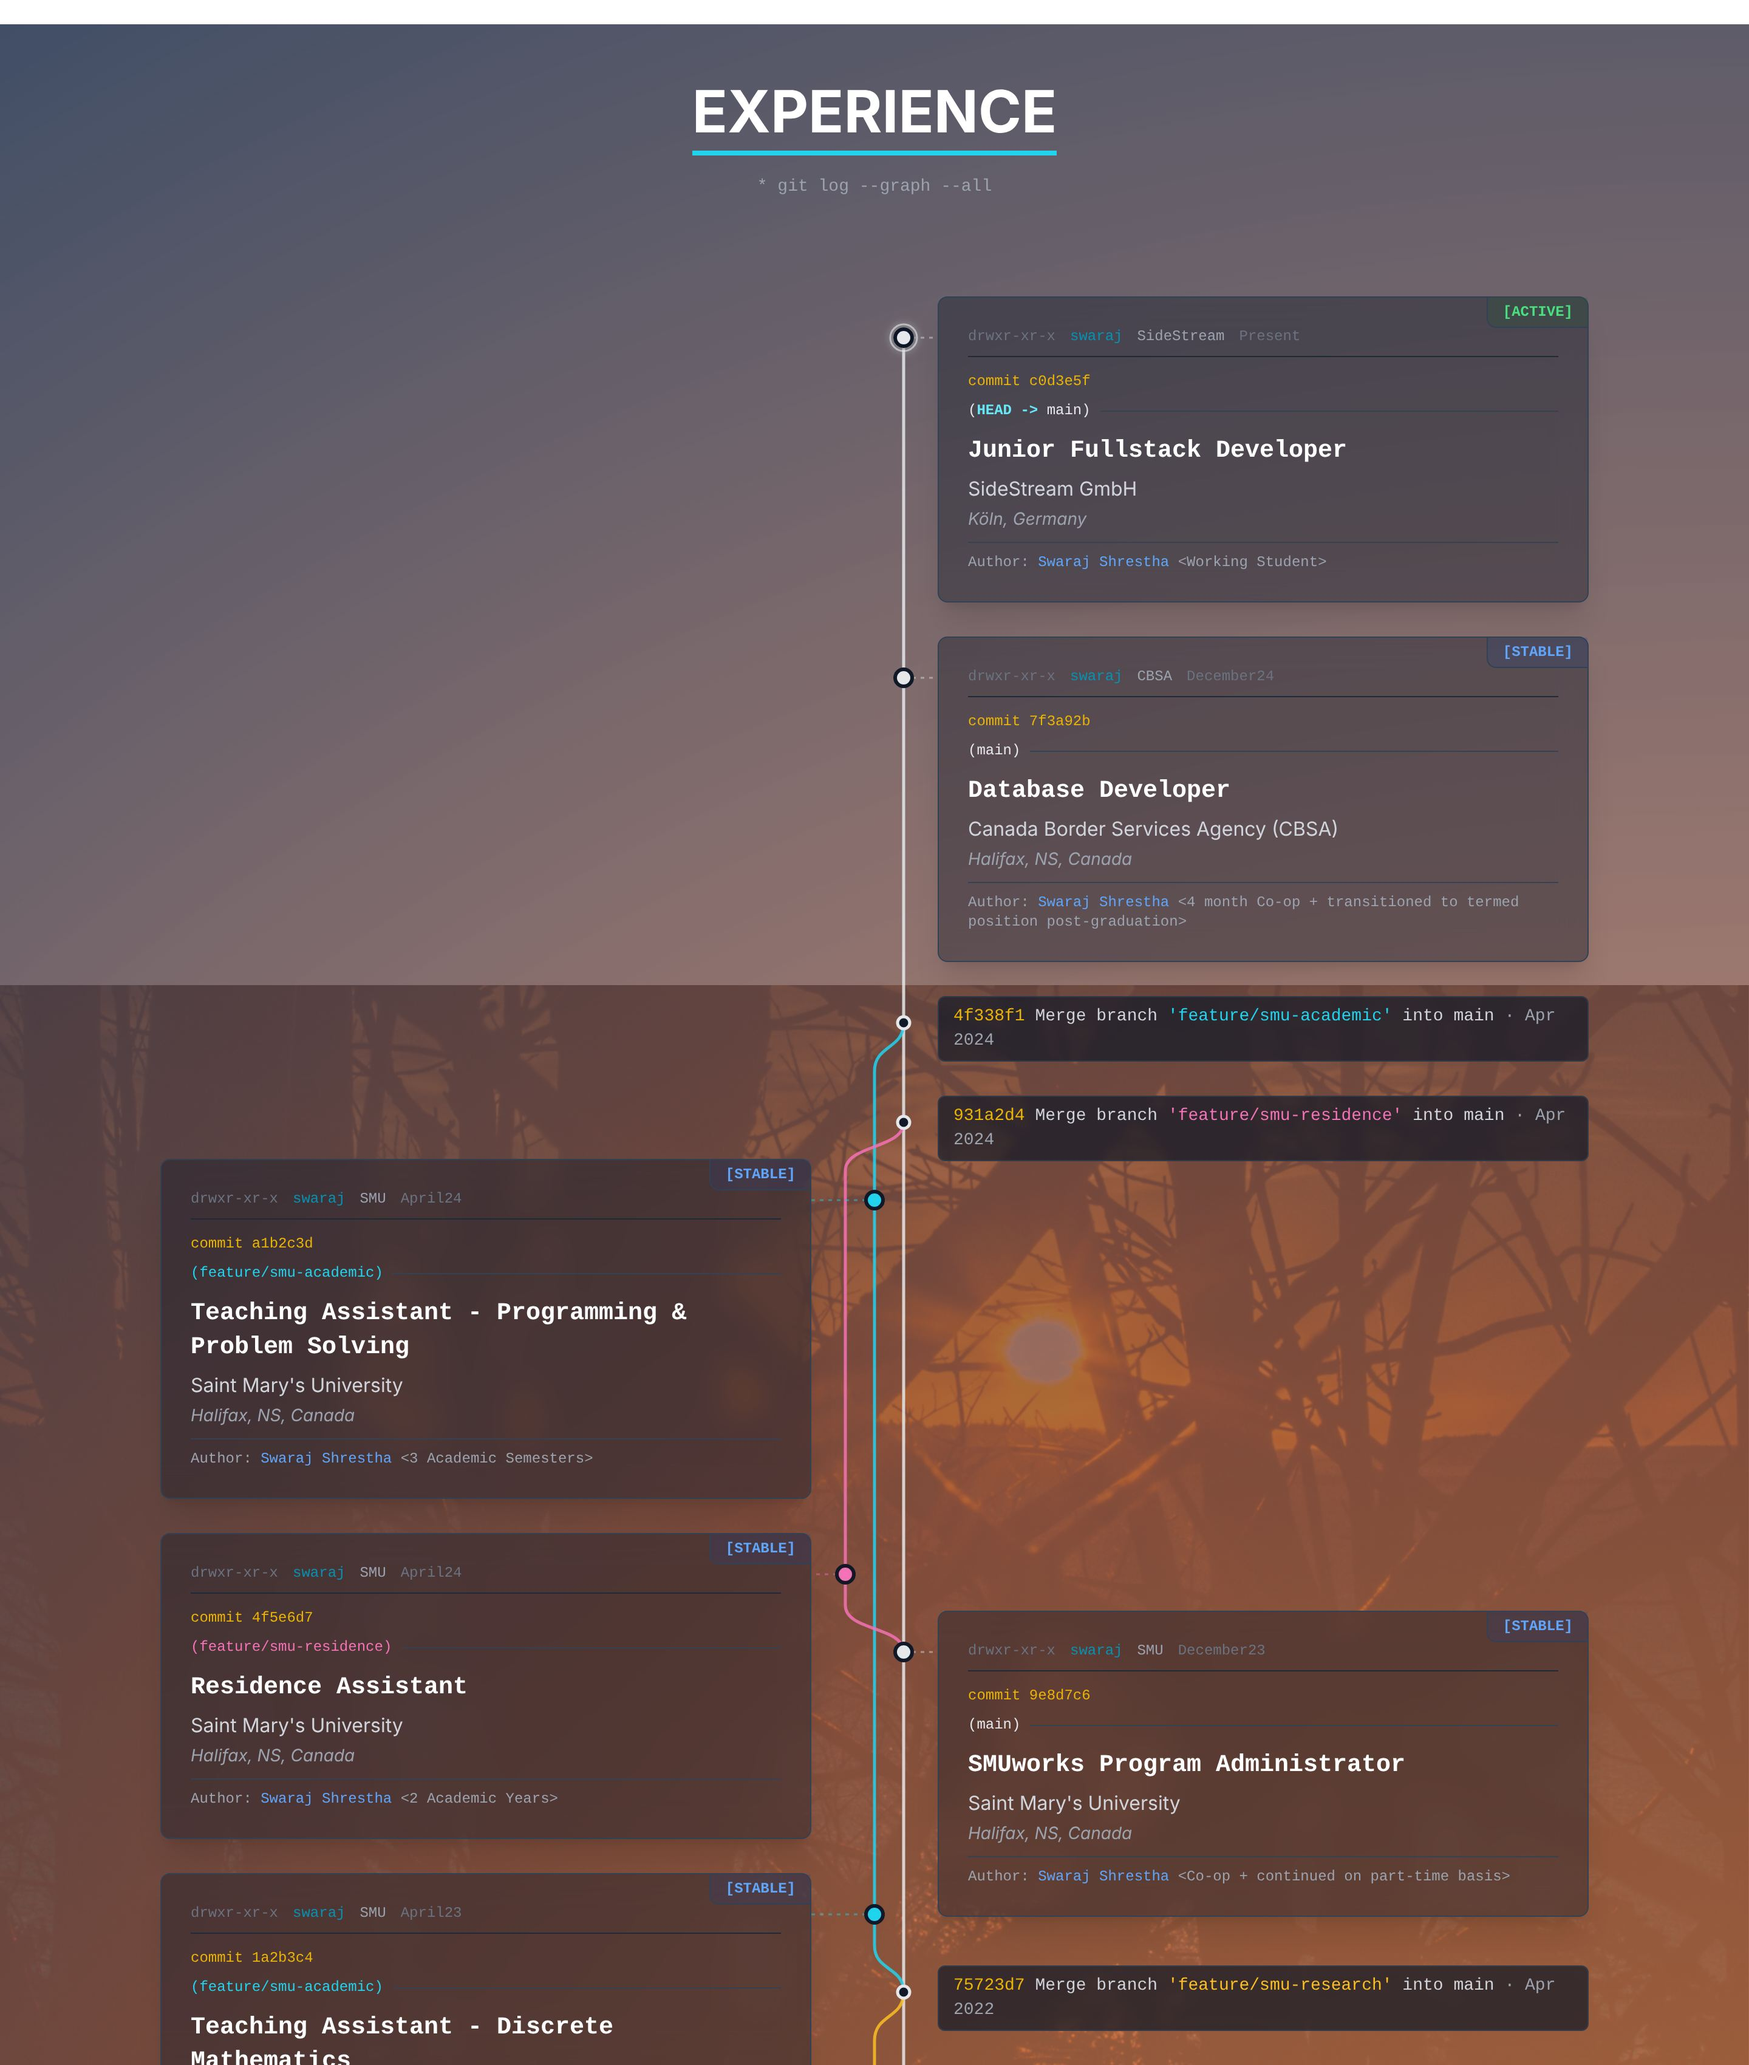
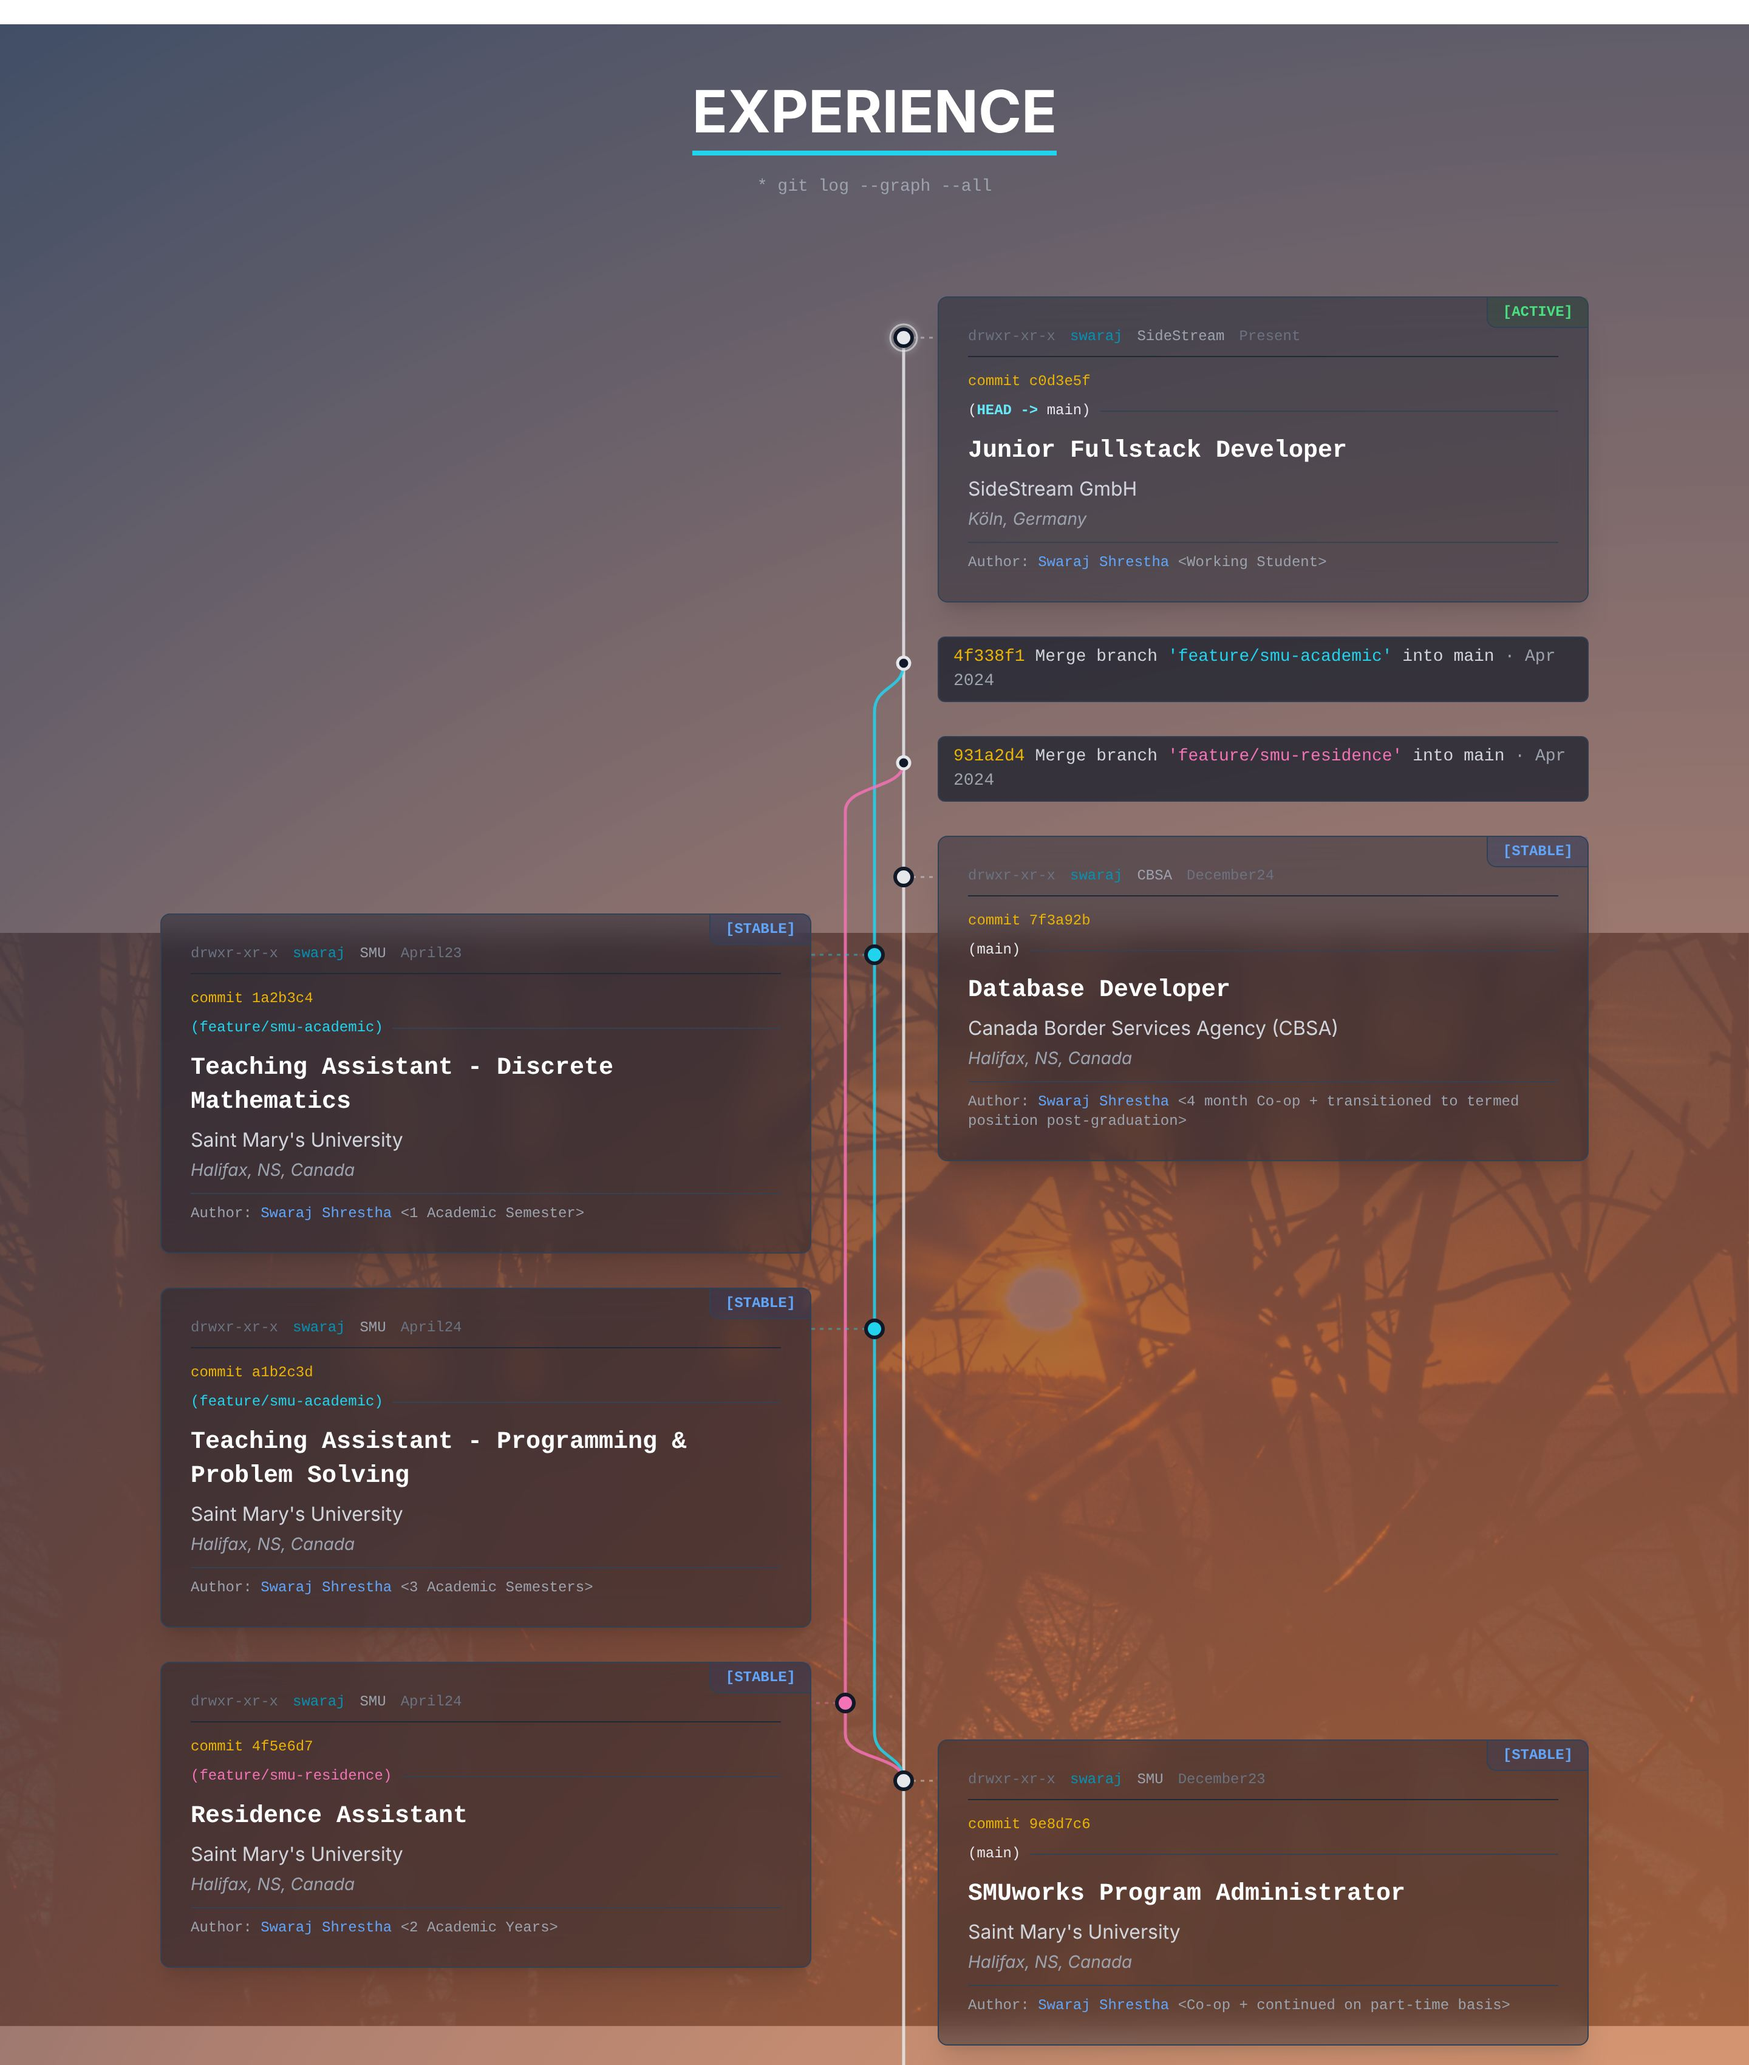
Experience graph: order roles by start date again
Commits are dated by the role's start month (merges still happen when a
branch's last role ends); the start-date order reads better visually.
README Experience screenshot refreshed.

Claude-Session: https://claude.ai/code/session_011MEdkacH3V9TTikrtbKY46

Changed region(s): [[0.0, 0.3118, 1.0, 1.0], [0.9062, 0.6235, 1.0, 0.7171], [0.4688, 0.3741, 0.5, 0.4053]]

diff --git a/src/components/gitgraph/buildGraph.js b/src/components/gitgraph/buildGraph.js
@@ -1,6 +1,5 @@
 // Turns the experience list into a git-style commit graph:
-//   - every role is a commit on its `branch`, dated by its end month
-//     (a role that is still "Present" is the newest commit)
+//   - every role is a commit on its `branch`, dated by its start month
 //   - a feature branch forks off the main commit just before its first role
 //   - a feature branch merges back into main when its last role ends
 //     (no merge while a role on it is still "Present")
@@ -10,8 +9,6 @@ const MONTHS = {
   january: 0, february: 1, march: 2, april: 3, may: 4, june: 5,
   july: 6, august: 7, september: 8, october: 9, november: 10, december: 11,
 };
-
-const PRESENT = Number.MAX_SAFE_INTEGER;
 
 // "September 2022" -> months since year 0 (sortable); "Present" -> null
 const parseMonth = (text) => {
@@ -51,7 +48,7 @@ export const buildGraph = (experiences, mainBranch = "main") => {
       hash: exp.commitHash,
       start: parseMonth(startText),
       end: parseMonth(endText), // null = Present
-      date: parseMonth(endText) ?? PRESENT,
+      date: parseMonth(startText),
     };
   });
 
